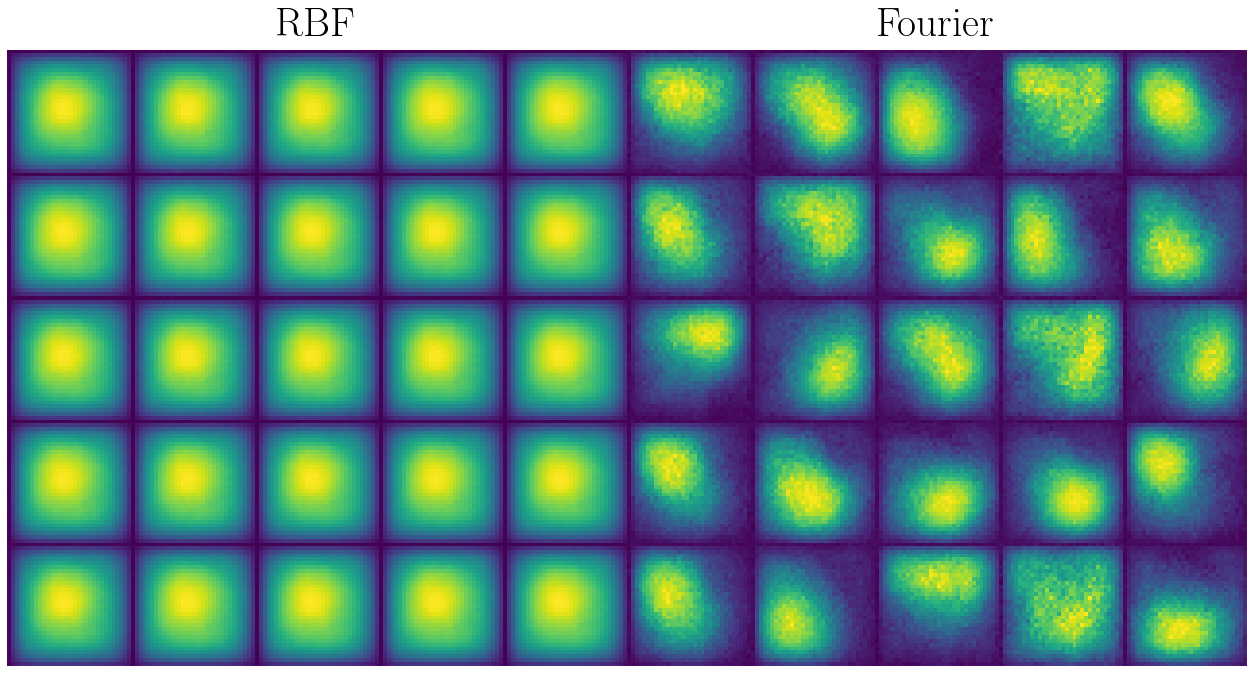
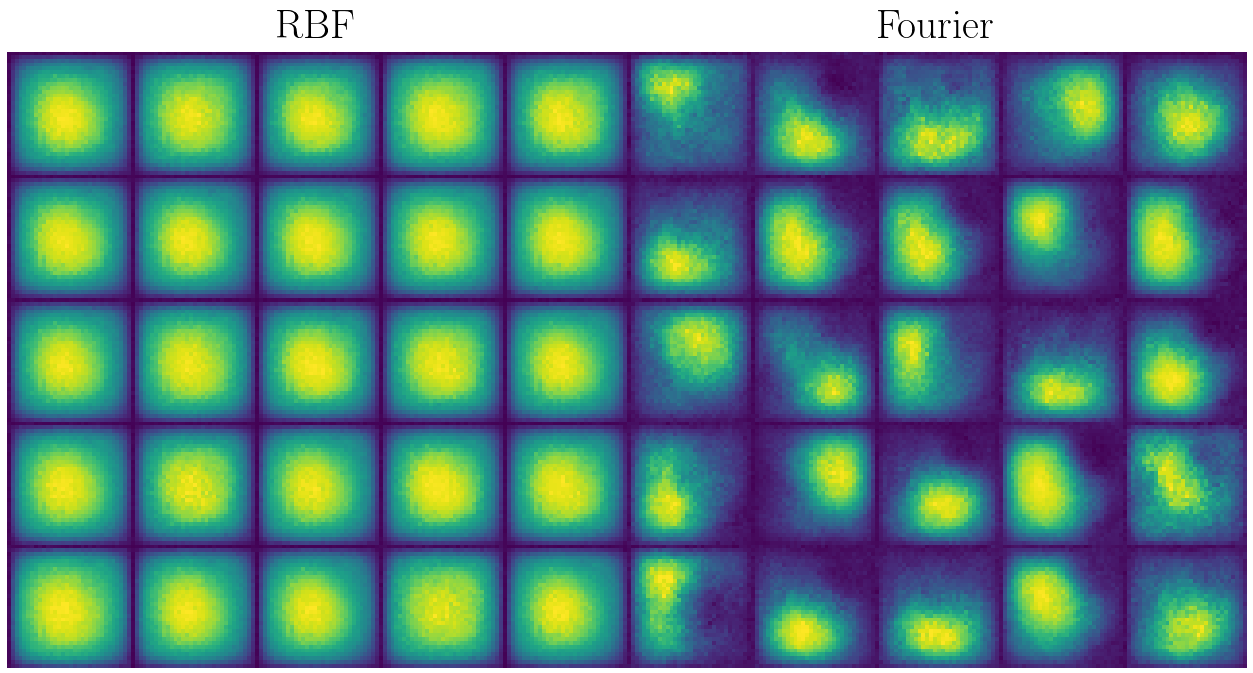
plotting

diff --git a/plotting/results/plot_darcy_intro.py b/plotting/results/plot_darcy_intro.py
@@ -12,8 +12,8 @@ plt.rcParams.update({
 
 # File paths to HDF5 files
 file_paths = [
-    'logs/uniform_RBF/DARCY_FLOW_1/generated_images.h5',
-    'logs/uniform_FFT/DARCY_FLOW_1/generated_images.h5'
+    'logs/gaussian_RBF/DARCY_FLOW_1/generated_images.h5',
+    'logs/gaussian_FFT/DARCY_FLOW_1/generated_images.h5'
 ]
 
 real_images = 'logs/uniform_RBF/DARCY_FLOW_1/real_images.h5'